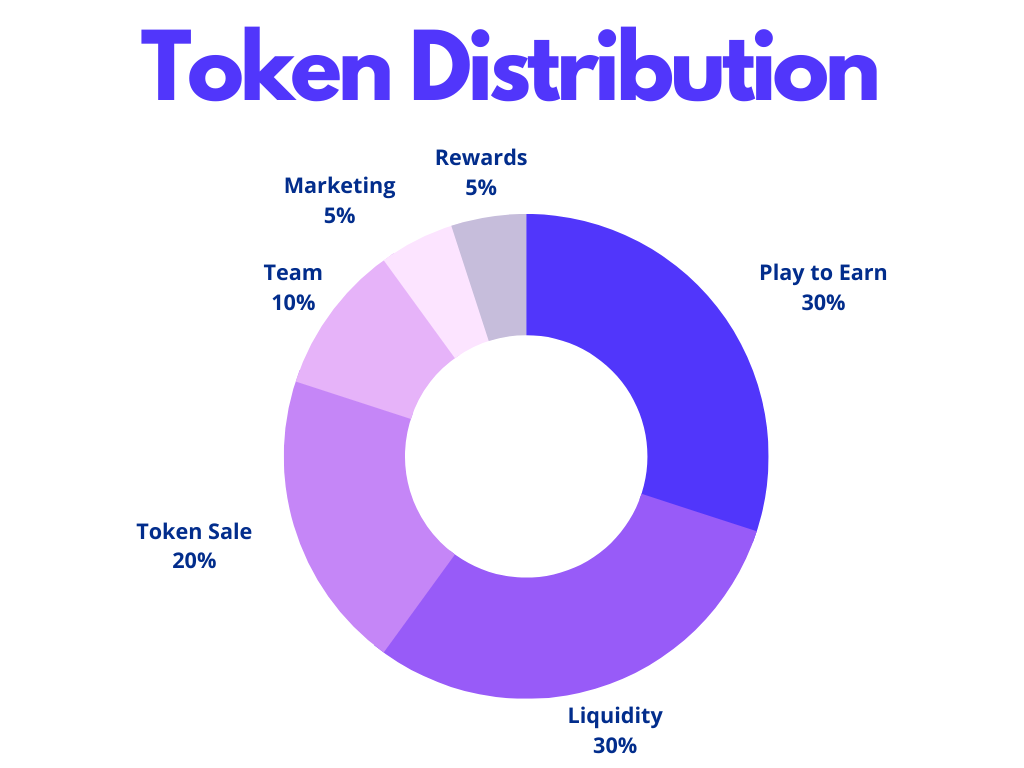
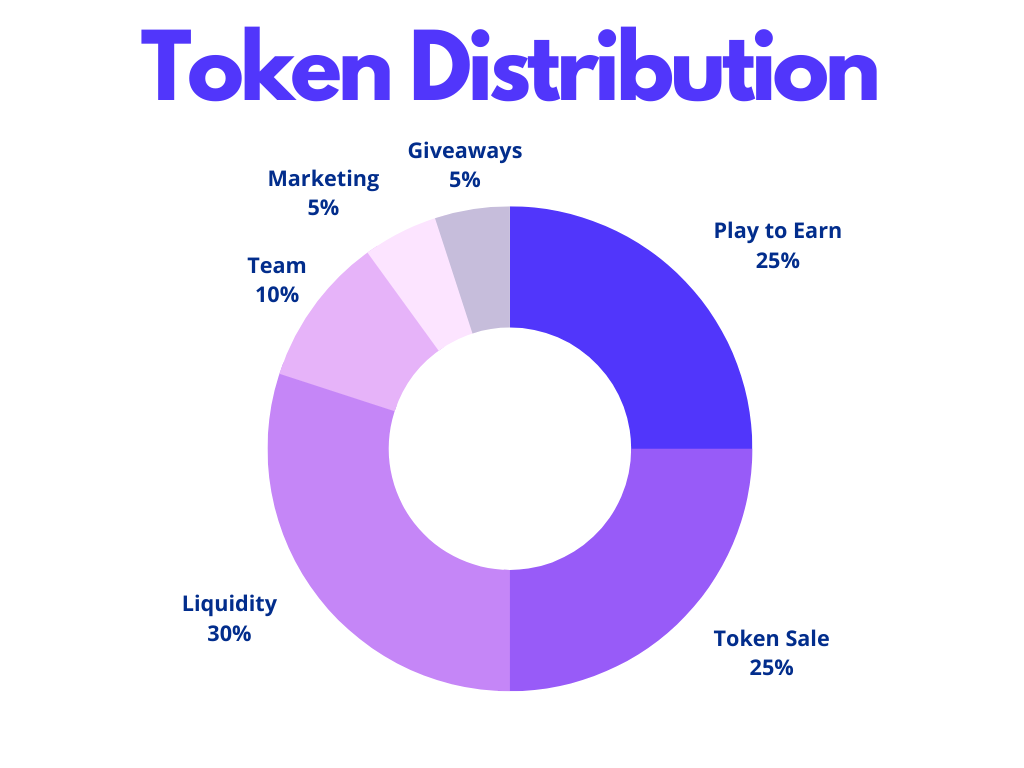
GitBook: [#10] No subject

diff --git a/pixel-hub-token-pht/tokenomics.md b/pixel-hub-token-pht/tokenomics.md
@@ -6,9 +6,7 @@ description: PHT Token Economics
 
 #### All payouts from in-game rewards are paid out in BNB from the rewards wallet, reflections are paid out in the native PHT tokens.
 
-![](../.gitbook/assets/pht\_token\_distribution.png)
-
-
+![](<../.gitbook/assets/pht\_token\_distribution (1).png>)
 
 ### <mark style="color:purple;">Fees and Rewards</mark>
 
